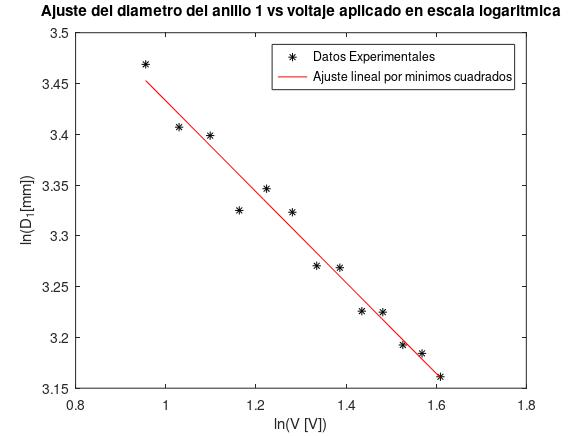
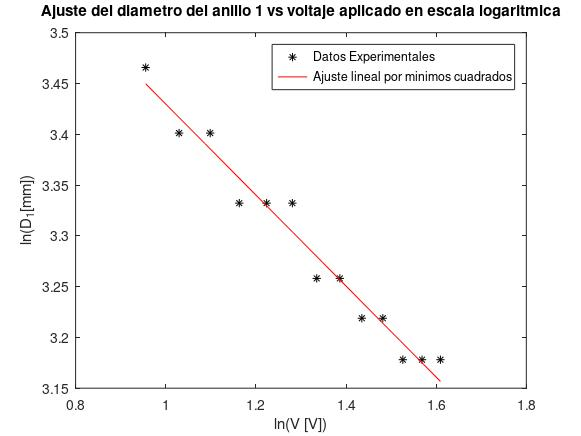
Practicas EFM

diff --git a/EFM20212/9/lambdamin.m b/EFM20212/9/lambdamin.m
@@ -1,0 +1,65 @@
+clear all; close all;
+Vr= [2	2.1	2.2	2.3	2.4	2.5	2.6	2.7	2.8	2.9	3	3.1	3.2	3.3	3.4	3.5	3.6	3.7	3.8	3.9	4];
+I=[19.8	16.9	16.2	17.2	18.9	16.5	18.2	19.4	18.1	14.2	19.6	23.6	31.2	58.5	146.9	277.1	466.2	663.5	826.6	943	1059.7];
+volmax = 3.3; %%%%%%%%%%%%%%%%%%%% <-------------SELECCIONAR el valor de voltaje hasta el que se considera, inicialmente, que esta el 0
+N=find(Vr == volmax);
+x(1) = 0; y(1) = 0;
+x = Vr(1:N);
+y = I(1:N);
+
+prom=mean(y)
+destan=std(y)
+size(y,2)
+
+xx = min(Vr):(max(Vr)-min(Vr))/100:max(Vr);Isup =prom+3*destan; Iprom= prom; Iinf = prom-3*destan; deltaI = 3*destan;
+yysup = Isup*ones(1,length(xx));
+yyprom = Iprom*ones(1,length(xx));
+yyinf = Iinf*ones(1,length(xx));
+Vosup=3.3; %%%%%%%%%%%%%%%%%%%% <-------------
+Voinf=3.5; %%%%%%%%%%%%%%%%%%%% <-------------SELECCIONAR el rango para el cual se considera que esta el primer voltaje fuera de la region 0
+Vo=(Vosup+Voinf)/2
+deltaVo=Vo-Vosup
+xinf = Vo-((0.4/0.1)-1)*deltaVo; xsup = Vo+((0.4/0.1)-1)*deltaVo; ysup = Iprom+((0.45/0.05)-1)*deltaI;yinf = Iprom-((0.45/0.05)-1)*deltaI;
+yf1= yinf:0.1:ysup;
+xf1= Vosup*ones(1,length(yf1));
+yf2= yinf:0.1:ysup;
+xf2= Vo*ones(1,length(yf2));
+yf3= yinf:0.1:ysup;
+xf3= Voinf*ones(1,length(yf3));
+
+figure(1);clf;
+%%%%%%%%%%%%%%%%%%%%%%%%%%%%%%%%%%%%%%%%%%%%%%%%%%%%%%%%%%%%%%%%%%%%%%
+subplot(2,2,1:2)
+plot (Vr,I,'r.');grid on;
+xlabel('V_{r}[V]');ylabel('I[A]');
+legend('Datos Experimentales','Location','northwest')
+title('Relacion de I en funcion de V_{r}')
+%%%%%%%%%%%%%%%%%%%%%%%%%%%%%%%%%%%%%%%%%%%%%%%%%%%%%%%%%%%%%%%%%%%%%%
+subplot(2,2,3:4)
+plot (x,y,'c.');grid on;
+axis([min(Vr) max(Vr) min(I) max(I)])
+xlabel('V_{r}[V]');ylabel('I[A]');
+legend('Datos Experimentales')
+title('Primera consideracion de puntos como I=0')
+
+figure(2);clf;
+%%%%%%%%%%%%%%%%%%%%%%%%%%%%%%%%%%%%%%%%%%%%%%%%%%%%%%%%%%%%%%%%%%%%%%
+subplot(2,1,1)
+plot (Vr,I,'r.',xx,yysup,'m-',xx,yyprom,'b-',xx,yyinf,'m-');grid on;
+axis([min(Vr) max(Vr) min(I) max(I)])
+title('A)')
+xlabel('V_{r}[V]');ylabel('I[A]');
+legend('Datos Experimentales','I_{prom}+3\sigma','I_{prom}','I_{prom}-3\sigma','Location','northwest')
+%%%%%%%%%%%%%%%%%%%%%%%%%%%%%%%%%%%%%%%%%%%%%%%%%%%%%%%%%%%%%%%%%%%%%%
+subplot(2,1,2)
+plot (Vr,I,'r.',xx,yysup,'m-',xx,yyprom,'b-',xx,yyinf,'m-');grid on;
+title('B)')
+xlabel('V_{r}[V]');ylabel('I[A]');
+axis([min(Vr) max(Vr) min(I) 200])
+%%%%%%%%%%%%%%%%%%%%%%%%%%%%%%%%%%%%%%%%%%%%%%%%%%%%%%%%%%%%%%%%%%%%%%
+figure(3);clf;
+plot (Vr,I,'r*',xx,yysup,'m-',xx,yyprom,'b-',xx,yyinf,'m-',xf1,yf1,'g',xf2,yf2,'k',xf3,yf3,'g');grid on;
+title('C)')
+axis([xinf xsup yinf ysup])
+xlabel('V_{r}[V]');ylabel('I[A]');
+legend('Datos Experimentales','I_{prom}+3\sigma','I_{prom}','I_{prom}-3\sigma','V_{o-sup}','V_{o}','V_{o-inf}','Location','southwest')

diff --git a/EFM20212/9/grafica.m b/EFM20212/9/grafica.m
@@ -1,0 +1,4 @@
+clear all; close all;
+theta = [2	2.1	2.2	2.3	2.4	2.5	2.6	2.7	2.8	2.9	3	3.1	3.2	3.3	3.4	3.5	3.6	3.7	3.8	3.9	4	4.1	4.2	4.3	4.4	4.5	4.6	4.7	4.8	4.9	5	5.1	5.2	5.3	5.4	5.5	5.6	5.7	5.8	5.9	6	6.1	6.2	6.3	6.4	6.5	6.6	6.7	6.8	6.9	7	7.1	7.2	7.3	7.4	7.5	7.6	7.7	7.8	7.9	8	8.1	8.2	8.3	8.4	8.5	8.6	8.7	8.8	8.9	9	9.1	9.2	9.3	9.4	9.5	9.6	9.7	9.8	9.9	10	10.1	10.2	10.3	10.4	10.5	10.6	10.7	10.8	10.9	11	11.1	11.2	11.3	11.4	11.5	11.6	11.7	11.8	11.9	12	12.1	12.2	12.3	12.4	12.5	12.6	12.7	12.8	12.9	13	13.1	13.2	13.3	13.4	13.5	13.6	13.7	13.8	13.9	14	14.1	14.2	14.3	14.4	14.5	14.6	14.7	14.8	14.9	15	15.1	15.2	15.3	15.4	15.5	15.6	15.7	15.8	15.9	16	16.1	16.2	16.3	16.4	16.5	16.6	16.7	16.8	16.9	17	17.1	17.2	17.3	17.4	17.5	17.6	17.7	17.8	17.9	18	18.1	18.2	18.3	18.4	18.5	18.6	18.7	18.8	18.9	19	19.1	19.2	19.3	19.4	19.5	19.6	19.7	19.8	19.9	20	20.1	20.2	20.3	20.4	20.5	20.6	20.7	20.8	20.9	21	21.1	21.2	21.3	21.4	21.5	21.6	21.7	21.8	21.9	22	22.1	22.2	22.3	22.4	22.5	22.6	22.7	22.8	22.9	23	23.1	23.2	23.3	23.4	23.5	23.6	23.7	23.8	23.9	24	24.1	24.2	24.3	24.4	24.5	24.6	24.7	24.8	24.9	25];
+I = [19.8	16.9	16.2	17.2	18.9	16.5	18.2	19.4	18.1	14.2	19.6	23.6	31.2	58.5	146.9	277.1	466.2	663.5	826.6	943	1059.7	1131	1193	1250.6	1312.5	1332.3	1357.9	1381.4	1390.1	1402.5	1378.3	1389.1	1363.6	1367.1	1353.1	1324.2	1304.2	1271.7	1270.5	1216	1189	1212.8	1481.2	2006.5	2205.5	2075.1	1722.7	1292.7	1084	1142.9	1839.6	3413.9	4017	3845.4	2967.6	1691.9	990.2	838.9	793.3	773.8	742.5	702.2	680.3	659.3	617.5	623.5	583.1	561.3	551.7	526.1	512.1	482.4	476.6	452.5	444.7	414.5	395.4	372.1	365.4	346.2	345.7	327.9	318.7	312.6	306.8	298.6	295.4	286.1	273.1	273.4	270.8	256.5	266.1	251.2	257	248.7	250	236.9	230.2	229.5	228	226.6	213	219.2	217.9	219.2	267.1	317.4	463.5	570.3	559.8	493	299.7	225.8	218.4	215.7	199.8	202.5	200.3	197.5	206.6	184.2	205.5	255.3	625	1144.8	1364.3	1244.6	737.3	338.7	190.4	168.9	163.4	156.4	155.5	148.5	143	153.6	144.8	141.1	129.4	128.1	137.1	131.8	122.3	123.6	128.1	113.7	114.4	114.7	105.8	120.2	105.4	95.4	98.6	93.4	94.3	94.6	97.9	94.7	92.3	86.6	90.7	86.6	84.8	81.8	80.6	78.2	80.3	77	83.4	73.5	85.2	89.9	93.2	118	149.4	161.3	133.2	95.9	72	68	63.5	63.2	62.1	62.2	61	57.7	56.5	58.4	59	59.7	59.1	56	55	50.7	55.8	54.5	58	67.6	139.4	274.8	357.6	358.2	246.8	128.2	64.9	52.1	45	47.2	45.3	42	41.9	39.7	41.7	41.9	35.8	35.7	38.5	38.5	37.9	34.9	36.5	33.4	35.9	33.4	33.7	31.6	32.9	28.4	30.9];
+plot (theta,I,'k*-')

diff --git a/EFM20212/7/DiametrovsV.m b/EFM20212/7/DiametrovsV.m
@@ -1,25 +1,31 @@
-clear all; close all;
-D1int = [21.8	22.7	22.7	23.6	24	24.5	24.65	26.35	26.8	27.2	28	27.55	30];
+clear all; close all; 
+D1int = [21.8	22.7	22.7	23.6	24	24.5	24.65	26.35	26.8	27.2	28	27.55	30]; h = 
 D1ext = [25.4	25.6	26	26.7	26.35	28.05	28	29.15	30	28.4	31.85	32.8	34.2];
-D1 = (D1ext+D1int)/2;
+%D1 = (D1ext+D1int)/2;
+D1 = [24 24 24 25 25 26 26 28 28 28 30 30 32];
+%D1 = [0.024 0.024 0.024 0.025 0.025 0.026 0.026 0.028 0.028 0.028 0.030 0.030 0.032];
+deltad1 = (D1-D1int)+0.4;
 D2int = [39.45	39.4	39.3	40.85	42.5	43.25	43	46.75	45.25	47.8	50.4	50.7	53.4];
 D2ext = [45.25	43.45	47.5	46.2	45.95	46.9	48.4	48.75	50.65	51.55	53.2	55.2	58.2];
-D2 = (D2ext+D2int)/2;
+%D2 = (D2ext+D2int)/2;
+D2 = [42 41 43 44 44 45 46 48 48 50 52 53 56];
+%D2 = [0.042 0.041 0.043 0.044 0.044 0.045 0.046 0.048 0.048 0.050 0.052 0.053 0.056];
+deltad2 = (D2-D2int)+0.4;
 V = [5	4.8	4.6	4.4	4.2	4	3.8	3.6	3.4	3.2	3	2.8	2.6];
 x = log(V); y = log(D1);
 j = log(V); k = log(D2); 
 
 %%%%%% ajustes para D1
 [N1,a1,deltaa1,b1,deltab1,r1] = MinimosCuadrados(V,D1); % escala normal
-[N2,a2,deltaa2,b2,deltab2,r2] = MinimosCuadrados(x,y) % escala logaritmica
+[N2,a2,deltaa2,b2,deltab2,r2] = MinimosCuadrados(x,y)   % escala logaritmica
 [N3,a3,deltaa3,b3,deltab3,r3] = MinimosCuadrados(x,D1); % escala con escala logaritmica en V
-[N4,a4,deltaa4,b4,deltab4,r4] = MinimosCuadrados(V,y); % escala con escala logaritmica en D
+[N4,a4,deltaa4,b4,deltab4,r4] = MinimosCuadrados(V,y);  % escala con escala logaritmica en D
 
 %%%%%% ajustes para D1
 [N5,a5,deltaa5,b5,deltab5,r5] = MinimosCuadrados(V,D2); % escala normal
-[N6,a6,deltaa6,b6,deltab6,r6] = MinimosCuadrados(j,k) % escala logaritmica
+[N6,a6,deltaa6,b6,deltab6,r6] = MinimosCuadrados(j,k)   % escala logaritmica
 [N7,a7,deltaa7,b7,deltab7,r7] = MinimosCuadrados(j,D2); % escala con escala logaritmica en V
-[N8,a8,deltaa8,b8,deltab8,r8] = MinimosCuadrados(V,k); % escala con escala logaritmica en D
+[N8,a8,deltaa8,b8,deltab8,r8] = MinimosCuadrados(V,k);  % escala con escala logaritmica en D
 
 %%%%% lineas para ajustes (Aqui ya se selecciono cual ajuste es mejor, comparando el coeficiente de Pearson)
 xx1=min(x):(max(x)-min(x))/10:max(x); yy1 = a2*xx1+b2;
